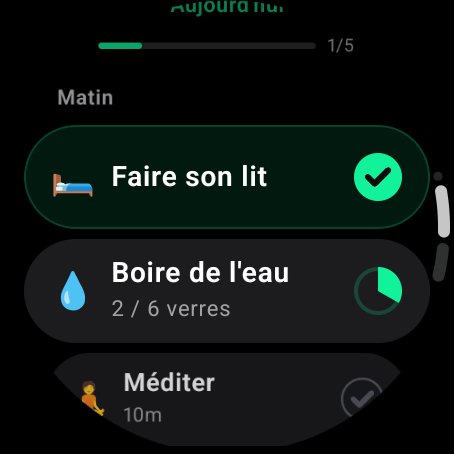
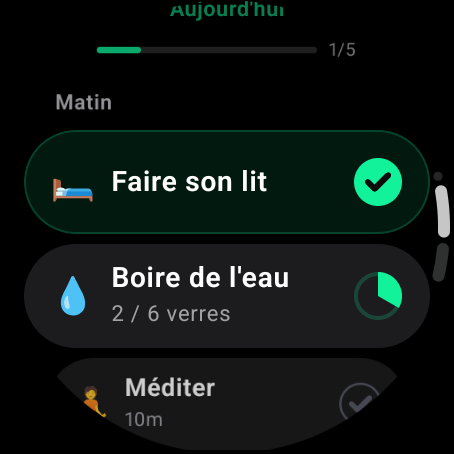
Wear store screenshots: wait for each screen, scroll the list the same everywhere
capture_wear.sh used fixed sleeps, which caught the splash or turned the list
scroll into a tap after a reinstall, flung the list a different distance per
language and let the clock drift past 9:41 while it waited. It now waits for
a marker text per screen (uiautomator dump), positions the list with slow
measured swipes (retaking the shot if it lands off), resets the clock right
before each shot, creates files/ on a fresh install and exits 1 naming any
shot it couldn't get right. All 8 list shots recaptured with the same layout.

diff --git a/docs/watch_app.md b/docs/watch_app.md
@@ -387,6 +387,13 @@ paired phone, so every language shows the same habits:
    Large Round emulator, 454×454, `adb root` for the 9:41 clock) write
    `marketing/watch_screenshots/{watchos,wear_os}/<lang>/<n>_<shot>.png`.
    The scripts' headers list the build and install steps.
+   `capture_wear.sh` waits for each screen to be drawn (a marker text in the
+   `uiautomator dump`) instead of fixed sleeps, scrolls the list to the same
+   spot in every language (slow swipes, measured, retaken if off) and resets
+   the clock to 9:41 right before each shot; it exits 1 naming any shot it
+   couldn't get right. `capture_watchos.sh` can't save into `~/Documents`
+   (the simulator lacks the permission and the script stops silently): run a
+   copy with `OUT` pointing elsewhere and copy the PNGs in.
 
 Play wants Wear OS screenshots square and unmasked (it rounds them itself),
 with nothing added, so they are uploaded exactly as captured.
